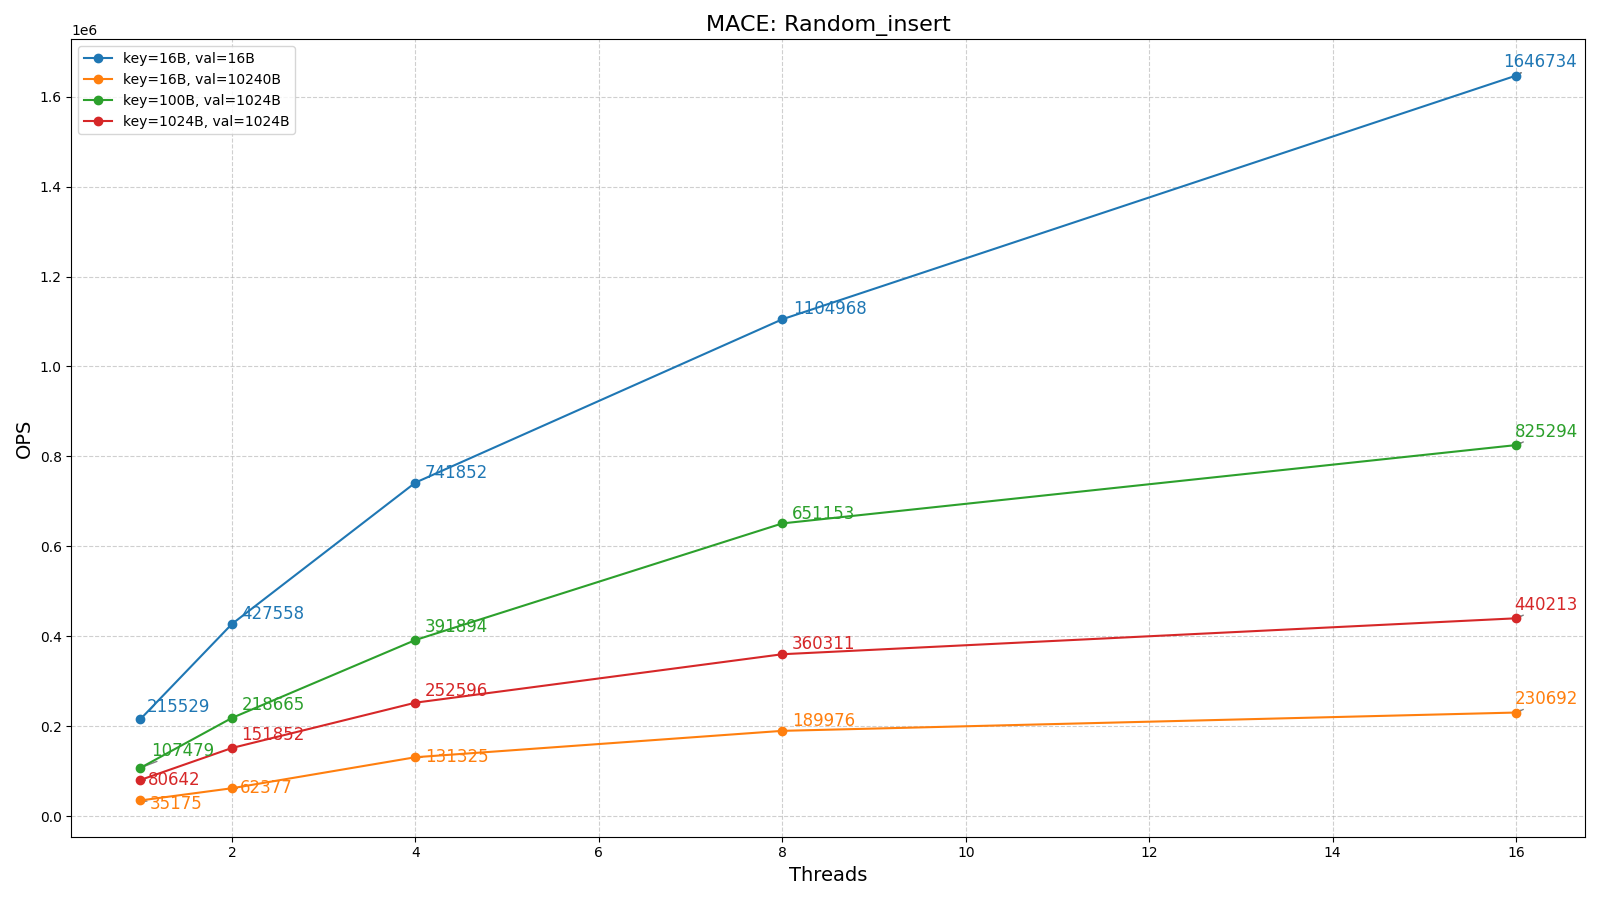
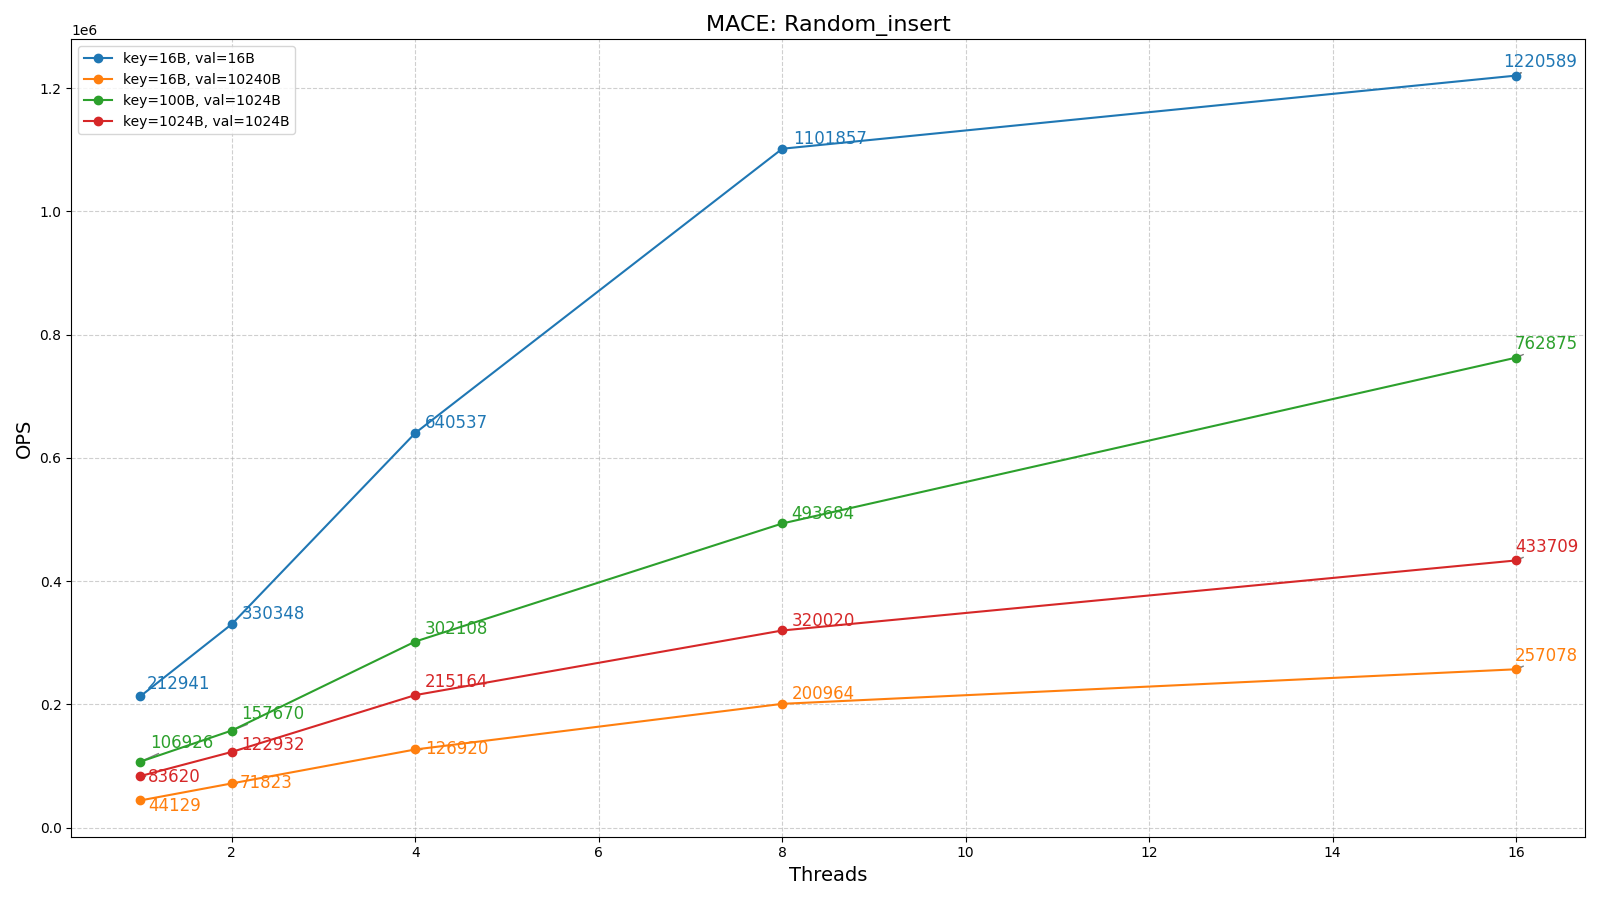
refine test & support mace-0.0.27

diff --git a/rocksdb/main.cpp b/rocksdb/main.cpp
@@ -22,12 +22,29 @@
 #include <format>
 #include <string>
 
+#include <pthread.h>
+#include <sched.h>
+#include <unistd.h>
+
 #include "CLI/CLI.hpp"
 #include "instant.h"
 
 template<class T>
 static void black_box(const T &t) {
     asm volatile("" ::"m"(t) : "memory");
+}
+
+static size_t cores_online() {
+    auto n = ::sysconf(_SC_NPROCESSORS_ONLN);
+    return n > 0 ? static_cast<size_t>(n) : 1;
+}
+
+static void bind_core(size_t tid) {
+    cpu_set_t set;
+    CPU_ZERO(&set);
+    auto core = static_cast<int>(tid % cores_online());
+    CPU_SET(core, &set);
+    (void) pthread_setaffinity_np(pthread_self(), sizeof(cpu_set_t), &set);
 }
 
 struct Args {
@@ -59,11 +76,11 @@ int main(int argc, char *argv[]) {
     app.add_option("-t,--threads", args.threads, "Threads");
     app.add_option("-k,--key-size", args.key_size, "Key Size");
     app.add_option("-v,--value-size", args.value_size, "Value Size");
-    app.add_option("-b,--blob-size", args.value_size, "Blob Size");
+    app.add_option("-b,--blob-size", args.blob_size, "Blob Size");
     app.add_option("-i,--iterations", args.iterations, "Iterations");
     app.add_option("-r,--insert-ratio", args.insert_ratio, "Insert Ratio for mixed mode");
     app.add_option("-p,--path", args.path, "DataBase Home");
-    app.add_option("--random", args.random, "Shuffle insert keys");
+    app.add_flag("--random", args.random, "Shuffle insert keys");
 
     CLI11_PARSE(app, argc, argv);
 
@@ -74,6 +91,11 @@ int main(int argc, char *argv[]) {
 
     if (std::filesystem::exists(args.path)) {
         fmt::println("path `{}` already exists", args.path);
+        return 1;
+    }
+
+    if (args.threads == 0) {
+        fmt::println("Error: threads must be greater than 0");
         return 1;
     }
 
@@ -142,27 +164,31 @@ int main(int argc, char *argv[]) {
     std::atomic<uint64_t> total_op{0};
     rocksdb::OptimisticTransactionDB *db;
     auto b = nm::Instant::now();
-    std::mutex mtx{};
     std::vector<rocksdb::ColumnFamilyHandle *> handles{};
     auto s = rocksdb::OptimisticTransactionDB::Open(options, args.path, cfd, &handles, &db);
     assert(s.ok());
-    std::barrier barrier{static_cast<ptrdiff_t>(args.threads)};
+    std::barrier ready_barrier{static_cast<ptrdiff_t>(args.threads + 1)};
+    std::barrier start_barrier{static_cast<ptrdiff_t>(args.threads + 1)};
 
     std::random_device rd{};
     std::mt19937 gen(rd());
-    std::uniform_int_distribution<int> dist(0, 100);
 
     std::string val(args.value_size, 'x');
-    auto keys_per_thread = args.iterations / args.threads;
+    std::vector<size_t> key_counts(args.threads, args.iterations / args.threads);
+    for (size_t i = 0; i < args.iterations % args.threads; ++i) {
+        key_counts[i] += 1;
+    }
+    keys.reserve(args.threads);
     for (size_t tid = 0; tid < args.threads; ++tid) {
         std::vector<std::string> key{};
-        for (size_t i = 0; i < keys_per_thread; ++i) {
+        key.reserve(key_counts[tid]);
+        for (size_t i = 0; i < key_counts[tid]; ++i) {
             auto tmp = std::format("key_{}_{}", tid, i);
             tmp.resize(args.key_size, 'x');
             key.emplace_back(std::move(tmp));
         }
         if (args.mode == "get" || args.random) {
-            std::shuffle(keys.begin(), keys.end(), gen);
+            std::shuffle(key.begin(), key.end(), gen);
         }
         keys.emplace_back(std::move(key));
     }
@@ -189,11 +215,14 @@ int main(int argc, char *argv[]) {
         handle = handles[0];
 
         // simulate common use cases
-        std::uniform_int_distribution<int> dist(0, args.threads - 1);
-        for (size_t i = 0; i < keys_per_thread; ++i) {
-            auto tid = dist(gen);
-            auto k = std::format("key_{}_{}", tid, i);
-            k.resize(args.key_size, 'x');
+        std::uniform_int_distribution<size_t> tid_dist(0, args.threads - 1);
+        for (size_t i = 0; i < args.iterations; ++i) {
+            auto tid = tid_dist(gen);
+            if (keys[tid].empty()) {
+                continue;
+            }
+            std::uniform_int_distribution<size_t> key_dist(0, keys[tid].size() - 1);
+            const auto &k = keys[tid][key_dist(gen)];
             auto s = db->Get(rocksdb::ReadOptions(), k, &val);
             if (!s.ok()) {
                 std::terminate();
@@ -202,10 +231,12 @@ int main(int argc, char *argv[]) {
     }
 
     auto *snapshot = db->GetSnapshot();
+    auto base_seed = rd();
     for (size_t tid = 0; tid < args.threads; ++tid) {
         wg.emplace_back([&, tid] {
+            bind_core(tid);
             std::string rval(args.value_size, '0');
-            auto prefix = std::format("key_{}", tid);
+            auto prefix = std::format("key_{}_", tid);
             auto ropt = rocksdb::ReadOptions();
             auto upper_bound = find_upper_bound(prefix);
             auto upper_bound_slice = rocksdb::Slice(upper_bound);
@@ -216,12 +247,11 @@ int main(int argc, char *argv[]) {
             ropt.prefix_same_as_start = true;
             ropt.snapshot = snapshot;
             size_t round = 0;
+            std::mt19937 mixed_gen(static_cast<uint32_t>(base_seed) ^ static_cast<uint32_t>(0x9e3779b9U * (tid + 1)));
+            std::uniform_int_distribution<int> mixed_dist(0, 99);
 
-            barrier.arrive_and_wait();
-            if (mtx.try_lock()) {
-                b = nm::Instant::now();
-                mtx.unlock();
-            }
+            ready_barrier.arrive_and_wait();
+            start_barrier.arrive_and_wait();
 
             if (args.mode == "insert") {
                 for (auto &key: *tk) {
@@ -243,7 +273,7 @@ int main(int argc, char *argv[]) {
             } else if (args.mode == "mixed") {
                 for (auto &key: *tk) {
                     round += 1;
-                    auto is_insert = dist(gen) < args.insert_ratio;
+                    auto is_insert = mixed_dist(mixed_gen) < static_cast<int>(args.insert_ratio);
                     auto *kv = db->BeginTransaction(wopt);
                     if (is_insert) {
                         kv->Put(handle, key, val);
@@ -272,6 +302,10 @@ int main(int argc, char *argv[]) {
             total_op.fetch_add(round, std::memory_order::relaxed);
         });
     }
+
+    ready_barrier.arrive_and_wait();
+    b = nm::Instant::now();
+    start_barrier.arrive_and_wait();
 
     for (auto &w: wg) {
         w.join();

diff --git a/src/main.rs b/src/main.rs
@@ -66,6 +66,16 @@ fn main() {
         exit(1);
     }
 
+    if args.threads == 0 {
+        eprintln!("Error: threads must be greater than 0");
+        exit(1);
+    }
+
+    if !matches!(args.mode.as_str(), "insert" | "get" | "mixed" | "scan") {
+        eprintln!("Error: Invalid mode");
+        exit(1);
+    }
+
     if args.key_size < 16 || args.value_size < 16 {
         eprintln!("Error: key_size or value_size too small, must >= 16");
         exit(1);
@@ -87,13 +97,17 @@ fn main() {
     saved.tmp_store = false;
     let mut db = Mace::new(opt.validate().unwrap()).unwrap();
     db.disable_gc();
+    let mut bkt = db.new_bucket("default").unwrap();
 
     let mut rng = rand::rng();
     let value = Arc::new(vec![b'0'; args.value_size]);
-    let keys_per_thread = args.iterations / args.threads;
+    let mut key_counts = vec![args.iterations / args.threads; args.threads];
+    for cnt in key_counts.iter_mut().take(args.iterations % args.threads) {
+        *cnt += 1;
+    }
     for tid in 0..args.threads {
-        let mut tk = Vec::with_capacity(keys_per_thread);
-        for i in 0..keys_per_thread {
+        let mut tk = Vec::with_capacity(key_counts[tid]);
+        for i in 0..key_counts[tid] {
             let mut key = format!("key_{tid}_{i}").into_bytes();
             key.resize(args.key_size, b'x');
             tk.push(key);
@@ -105,54 +119,52 @@ fn main() {
     }
 
     if args.mode == "get" || args.mode == "scan" {
-        let pre_tx = db.begin().unwrap();
+        let pre_tx = bkt.begin().unwrap();
         (0..args.threads).for_each(|tid| {
             for k in &keys[tid] {
                 pre_tx.put(k, &*value).unwrap();
             }
         });
         pre_tx.commit().unwrap();
+        drop(bkt);
         drop(db);
         // re-open db
         saved.tmp_store = true;
         db = Mace::new(saved.validate().unwrap()).unwrap();
+        bkt = db.get_bucket("default").unwrap();
 
         // simulate common use cases
-        for i in 0..keys_per_thread {
+        for _ in 0..args.iterations {
             let tid = rng.random_range(0..args.threads);
-            let mut k = format!("key_{tid}_{i}").into_bytes();
-            k.resize(args.key_size, b'x');
-            let view = db.view().unwrap();
-            view.get(&k).unwrap();
+            let Some(k) = keys[tid].choose(&mut rng) else {
+                continue;
+            };
+            let view = bkt.view().unwrap();
+            view.get(k).unwrap();
         }
     }
 
-    let barrier = Arc::new(std::sync::Barrier::new(args.threads));
+    let ready_barrier = Arc::new(std::sync::Barrier::new(args.threads + 1));
+    let start_barrier = Arc::new(std::sync::Barrier::new(args.threads + 1));
     let total_ops = Arc::new(std::sync::atomic::AtomicUsize::new(0));
-    let start_time = Arc::new(std::sync::Mutex::new(Instant::now()));
 
     let h: Vec<JoinHandle<()>> = (0..args.threads)
         .map(|tid| {
-            let db = db.clone();
+            let db = bkt.clone();
             let tk: &Vec<Vec<u8>> = unsafe { std::mem::transmute(&keys[tid]) };
             let total_ops = total_ops.clone();
-            let barrier = Arc::clone(&barrier);
+            let ready_barrier = Arc::clone(&ready_barrier);
+            let start_barrier = Arc::clone(&start_barrier);
             let mode = args.mode.clone();
             let insert_ratio = args.insert_ratio;
-            let st = start_time.clone();
             let val = value.clone();
-            let prefix = format!("key_{tid}");
+            let prefix = format!("key_{tid}_");
 
             std::thread::spawn(move || {
-                // coreid::bind_core(tid);
+                coreid::bind_core(tid);
                 let mut round = 0;
-                barrier.wait();
-
-                {
-                    if let Ok(mut guard) = st.try_lock() {
-                        *guard = Instant::now();
-                    }
-                }
+                ready_barrier.wait();
+                start_barrier.wait();
                 match mode.as_str() {
                     "insert" => {
                         for key in tk {
@@ -202,12 +214,15 @@ fn main() {
         })
         .collect();
 
+    ready_barrier.wait();
+    let start_time = Instant::now();
+    start_barrier.wait();
+
     for x in h {
         x.join().unwrap();
     }
 
-    let test_start = start_time.lock().unwrap();
-    let duration = test_start.elapsed();
+    let duration = start_time.elapsed();
     let total = total_ops.load(std::sync::atomic::Ordering::Relaxed);
     let ops = (total as f64 / duration.as_secs_f64()) as usize;
 

diff --git a/README.md b/README.md
@@ -1,6 +1,4 @@
-# mace 0.0.24 vs rocksdb 10.4.2
-
-**mace 0.0.24 traded a slight dip in query performance for a 10+% boost in insertion performance.**
+# mace 0.0.27 vs rocksdb 10.4.2
 
 ## sequential insert
 ![mace_sequential_insert](./scripts/mace_sequential_insert.png)
